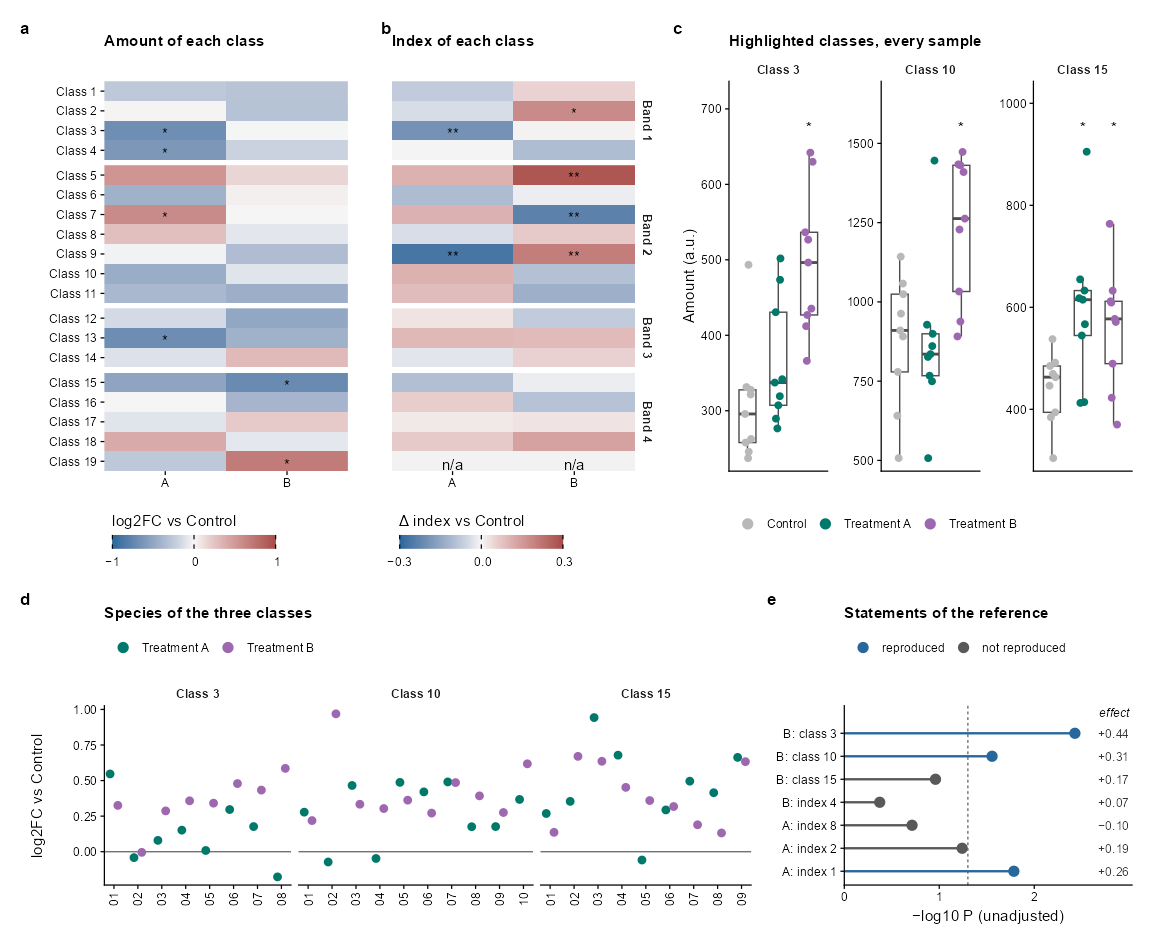
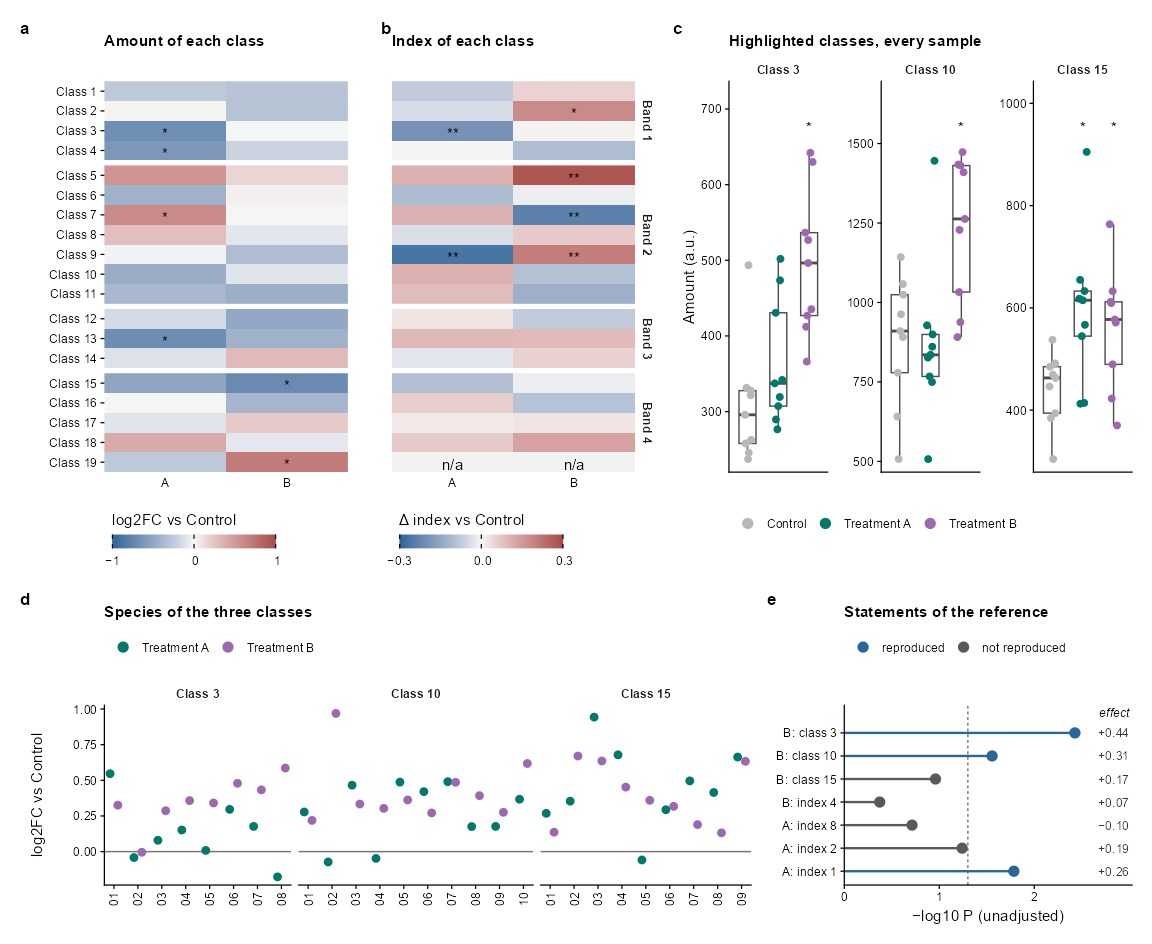
Fix the collisions that the check of the PDF files finds in the reanalysis figures
Three of the seven figures of the first figure-set article had a text that a stroke crosses: the stars and the n/a of the last row of the heat maps sat on the ticks under the columns, which are dropped; the names of the regulators in the fourth figure sat on points and on a zero line, and a small function now puts each name where no point lies under the text and no zero line crosses it; and two names of runs in the fifth figure sat on the point of another run, so they go to the left. All seven figures now pass the checks of the text size and of the collisions, and the article still passes journal_audit(). Version 1.8.7.

diff --git a/articles/figure-set.md b/articles/figure-set.md
@@ -154,7 +154,8 @@ heat_map <- function(d, limit, title, fill_title, classes_named) {
                            legend.frame = element_blank()))) +
     labs(x = NULL, y = NULL, title = title) +
     figure_theme + strip_text +
-    theme(legend.position = "bottom", legend.justification = "left", axis.line = element_blank(), panel.spacing.y = unit(0.8, "mm"))
+    theme(legend.position = "bottom", legend.justification = "left", axis.line = element_blank(), axis.ticks.x = element_blank(),
+          axis.text.x = element_text(margin = margin(t = 2.5)), panel.spacing.y = unit(0.8, "mm"))
   if (classes_named) {
     p + theme(strip.text.y = element_blank())
   } else {
@@ -258,7 +259,9 @@ against the reanalysis._
   of the bands in place of the names of the classes, so the rows are
   read once.
 - A tile that cannot be tested is grey and says “n/a” in place of a
-  value.
+  value. The columns have no ticks under them: a tick is a stroke, and
+  the “n/a” and the stars of the last row sit just above it, so a check
+  of the PDF file finds a text that a stroke crosses.
 - The panels sit on a grid of 36 columns that `design_rows()` writes
   out, so that the top and the bottom row never share a column boundary:
   patchwork would otherwise pad one panel to match the axis labels of
@@ -626,9 +629,30 @@ panel_stats <- do.call(rbind, lapply(by_panel, function(d) {
              label = sprintf("\u03C1 = %.2f\nsame sign %.0f%%", cor(d$reference, d$reanalysis, method = "spearman"),
                              100 * mean(sign(d$reference) == sign(d$reanalysis))))
 }))
-# the regulator with the largest change in each direction is named, on the free side of its point
-named <- do.call(rbind, lapply(by_panel, function(d) d[c(which.max(d$reference), which.min(d$reference)), ]))
-named$side <- ifelse(named$reference > 0, 1.15, -0.15)
+# The regulator with the largest change in each direction is named. The name goes to the nearest of
+# sixteen places around its point (eight directions, near and far, outward from the cloud first)
+# where the text covers no point, does not cross a zero line and stays inside the panel. The size
+# of the text is a share of the panel, which spans the range of the data and `room` on each side.
+room <- 0.15
+name_at <- function(d, i, width = 0.13, height = 0.105) {
+  sx <- diff(range(d$reference)) * (1 + 2 * room); sy <- diff(range(d$reanalysis)) * (1 + 2 * room)
+  where <- expand.grid(dx = c(-1, 0, 1), dy = c(-1, 0, 1), far = 0:1)
+  where <- where[where$dx != 0 | where$dy != 0, ]
+  outward <- c(d$reference[i] - mean(d$reference), d$reanalysis[i] - mean(d$reanalysis)) / c(sx, sy)
+  where <- where[order(where$far, -(where$dx * outward[1] + where$dy * outward[2])), ]
+  x <- d$reference[i] + where$dx * (width / 2 + 0.03 + 0.09 * where$far) * sx
+  y <- d$reanalysis[i] + where$dy * (height / 2 + 0.05 + 0.09 * where$far) * sy
+  trouble <- vapply(seq_along(x), function(k) {
+    under <- sum(abs(d$reference - x[k]) < (width / 2 + 0.015) * sx & abs(d$reanalysis - y[k]) < (height / 2 + 0.03) * sy)
+    on_zero <- abs(x[k]) < width / 2 * sx | abs(y[k]) < height / 2 * sy
+    outside <- abs(x[k] - mean(range(d$reference))) + width / 2 * sx > sx / 2 |
+      abs(y[k] - mean(range(d$reanalysis))) + height / 2 * sy > sy / 2
+    under + 5 * on_zero + 5 * outside
+  }, numeric(1))
+  best <- which.min(trouble)
+  data.frame(d[i, ], x = x[best], y = y[best])
+}
+named <- do.call(rbind, lapply(by_panel, function(d) rbind(name_at(d, which.max(d$reference)), name_at(d, which.min(d$reference)))))
 
 # c: where the cells of a sub-cluster come from
 sample_names <- c("Control 1", "Control 2", "A 1", "A 2", "B 1", "B 2")
@@ -678,14 +702,14 @@ panels_4 <- list(
   B = ggplot(regulators, aes(reference, reanalysis, colour = comparison)) +
     geom_vline(xintercept = 0, colour = "grey80", linewidth = 0.3) + geom_hline(yintercept = 0, colour = "grey80", linewidth = 0.3) +
     geom_point(size = 0.9, alpha = 0.9) +
-    geom_text(data = named, aes(label = label, hjust = side), size = small_text, fontface = "italic", colour = "grey15",
-              nudge_y = 0.12) +
+    geom_text(data = named, aes(x = x, y = y, label = label), size = small_text, fontface = "italic", colour = "grey15") +
     geom_text(data = panel_stats, aes(x = Inf, y = -Inf, label = label), inherit.aes = FALSE, hjust = 1.05, vjust = -0.2,
               size = small_text, lineheight = 0.95) +
     facet_grid(rows = vars(comparison), cols = vars(type), scales = "free", switch = "y",
                labeller = labeller(comparison = c("Treatment A" = "A", "Treatment B" = "B"))) +
     scale_colour_manual(values = group_colors[comparisons], guide = "none") +
-    scale_x_continuous(labels = function(x) minus(format(x))) + scale_y_continuous(labels = function(x) minus(format(x))) +
+    scale_x_continuous(labels = function(x) minus(format(x)), expand = expansion(mult = room)) +
+    scale_y_continuous(labels = function(x) minus(format(x)), expand = expansion(mult = room)) +
     labs(x = "Reference change in regulator activity", y = "Reanalysis change in regulator activity",
          title = "Regulators of the reference list") +
     figure_theme + strip_text +
@@ -726,6 +750,13 @@ embedding of the sub-clusters and the make-up of each group._
   and sits under panels **d** and **e**, which have none of their own.
 - In panel **c** the white lines cut each bar into its samples: the bars
   are `geom_col()` with `group = sample`, and a color for each group.
+- The names of the regulators in panel **b** are not nudged by a fixed
+  amount: a small function, `name_at()`, tries sixteen places around the
+  point (eight directions, near and far), outward from the cloud first,
+  and keeps the nearest where no point lies under the text, no zero line
+  crosses it and it stays in the panel. A name that sits on a point or
+  on a line is found by a check of the PDF file as a text that a stroke
+  crosses.
 
 ------------------------------------------------------------------------
 
@@ -755,6 +786,7 @@ runs <- data.frame(
 
 # b: the principal components of the runs that are kept
 components <- data.frame(runs[1:11, c("run", "group")], PC1 = rnorm(11, 0, 40), PC2 = rnorm(11, 0, 35))
+components$side <- ifelse(components$run %in% c("Run 3", "Run 8"), -1, 1)     # a name goes to the left when a point of another run lies on its right
 
 # c: every way of leaving out three runs, from the best agreement down
 leave_out <- data.frame(rank = 1:364)
@@ -803,7 +835,7 @@ panels_5 <- list(
           legend.text = element_text(size = 6), legend.key.size = unit(3, "mm"), legend.margin = margin(0, 0, 0, 0)),
   B = ggplot(components, aes(PC1, PC2, fill = group)) +
     geom_point(shape = 21, colour = "white", size = 2.2, stroke = 0.3) +
-    geom_text(aes(label = run), size = small_text, colour = "grey20", hjust = 0, nudge_x = 4, check_overlap = TRUE) +
+    geom_text(aes(x = PC1 + 4 * side, label = run, hjust = (1 - side) / 2), size = small_text, colour = "grey20") +
     scale_fill_manual(values = group_colors, guide = "none") +
     scale_x_continuous(labels = function(x) minus(format(x)), expand = expansion(mult = c(0.05, 0.15))) +
     scale_y_continuous(labels = function(x) minus(format(x))) +
@@ -861,9 +893,10 @@ reanalysis._
   made, and it is blue because it is the one result that the reanalysis
   reproduced.
 - The labels of panel **b** sit to the right of their points, with room
-  for them on the axis: with simulated points that never touch,
-  `check_overlap = TRUE` is enough, but a figure of real data may want
-  the ggrepel package.
+  for them on the axis, except two, Run 3 and Run 8, which go to the
+  left because a point of another run lies on their right. With many
+  labels, a figure may want the ggrepel package, which finds the places
+  by itself.
 
 ------------------------------------------------------------------------
 

diff --git a/NEWS.md b/NEWS.md
@@ -1,3 +1,12 @@
+# themeset 1.8.7
+
+* The seven figures of "A Figure Set for a Reanalysis" are checked as PDF files,
+  like those of the reporting study, and now pass: the heat maps of the first figure
+  have no ticks under their columns, which crossed the stars and the "n/a" of the
+  last row; the names of the regulators in the fourth figure are placed by a small
+  function, `name_at()`, where no point lies under the text and no zero line crosses
+  it; and two names of runs in the fifth figure go to the left of their points.
+
 # themeset 1.8.6
 
 * In the fourth figure of "A Figure Set for a Reporting Study" the legend of the
